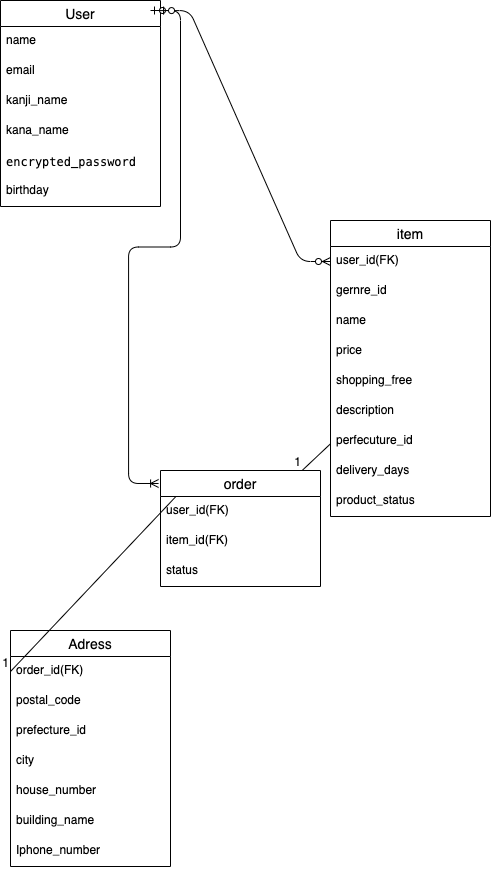
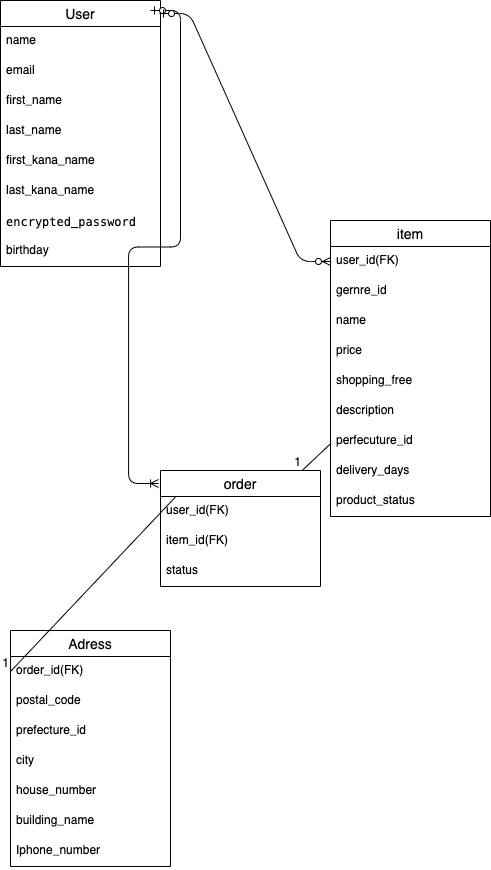
更新しました。

diff --git a/README.md b/README.md
@@ -8,8 +8,10 @@
 | name               | string | null: false |
 | email              | string | null: false, unique: true |
 | encrypted_password | string | null: false |
-| kanji_name         | string | null: false |
-| kana_name          | string | null: false |
+| first_name         | string | null: false |
+| last_name          | string | null: false |
+| first_name_kana    | string | null: false |
+| last_name_kana     | string | null: false |
 | birth_day          | date   | null: false |
 
 - has_many :items, through: :orders
